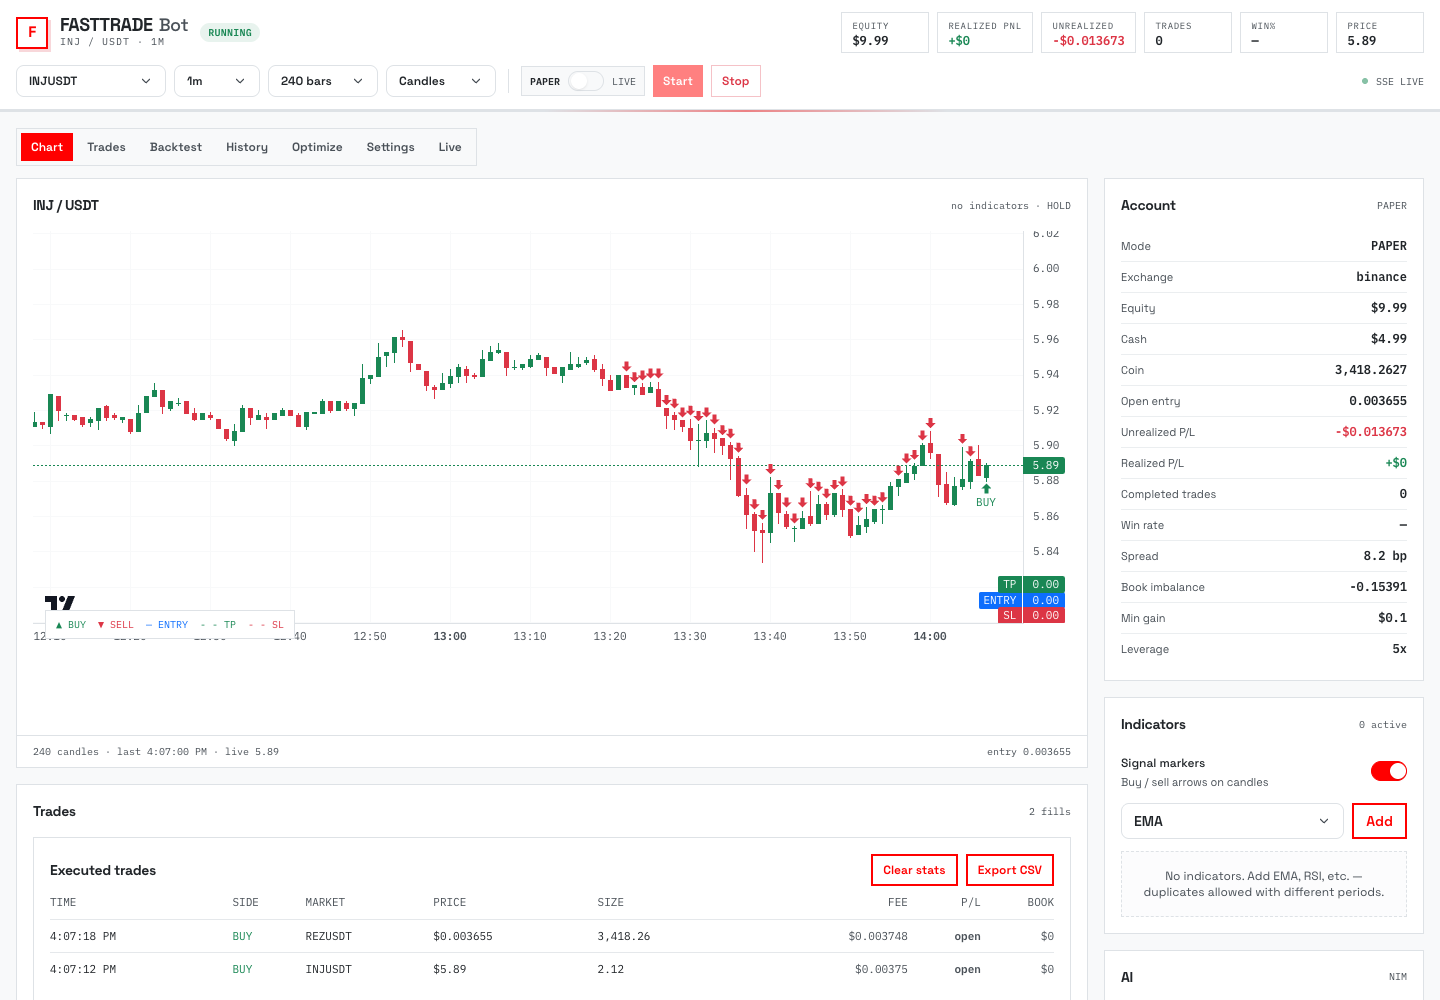
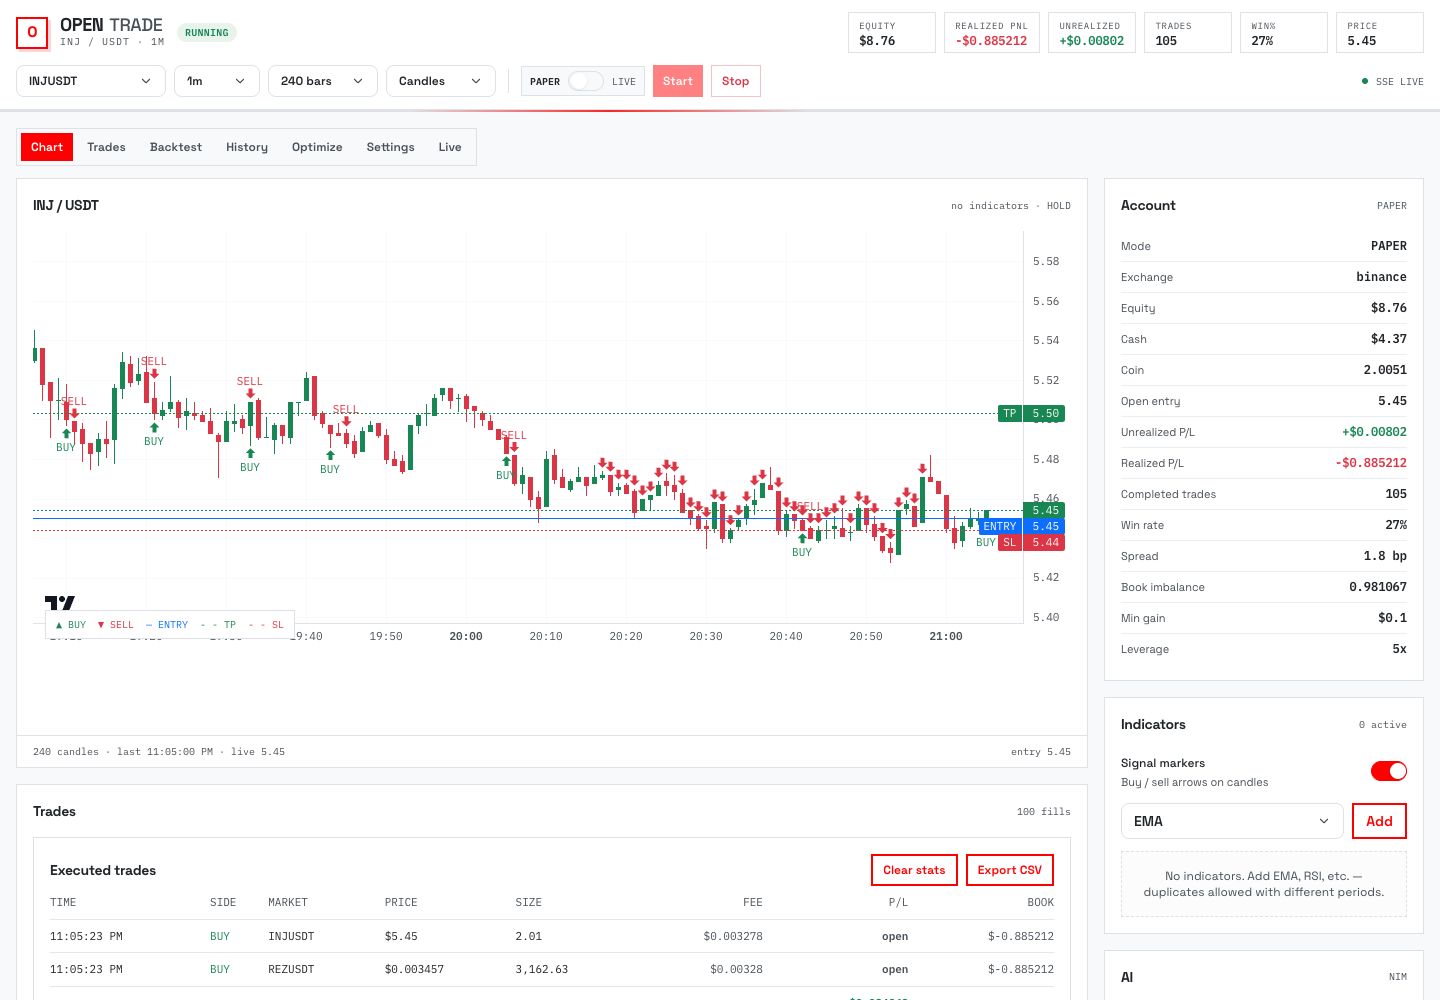
refactor: rename FastTradeBot to OpenTrade
Applies the OpenTrade name everywhere it was still FastTradeBot:

- UI header wordmark, page title, CSV export filename
- localStorage prefs key, sqlite database filename, startup banner
- README, hero/workflow SVGs, and a refreshed live dashboard screenshot
- test_fasttrade.py -> test_opentrade.py (16 tests still pass)

diff --git a/frontend/src/App.tsx b/frontend/src/App.tsx
@@ -59,7 +59,7 @@ const CHART_TYPES: { value: ChartType; label: string }[] = [
 
 const INTERVALS = ['1m', '2m', '3m', '5m', '10m', '15m', '30m', '1h', '2h', '4h', '1d']
 
-const UI_KEY = 'FASTTRADE_UI_V1'
+const UI_KEY = 'OPENTRADE_UI_V1'
 
 type UiPrefs = {
   chartType?: ChartType
@@ -560,10 +560,10 @@ export default function App() {
       <header className="sticky top-0 z-30 border-b border-line bg-panel">
         <div className="mx-auto flex w-full max-w-[1900px] flex-wrap items-center justify-between gap-4 px-4 py-3">
           <div className="flex items-center gap-3">
-            <div className="brand-mark">F</div>
+            <div className="brand-mark">O</div>
             <div>
               <div className="font-display text-lg font-extrabold leading-none tracking-tight">
-                FASTTRADE<span className="ml-1.5 font-medium text-steel">Bot</span>
+                OPEN<span className="ml-1.5 font-medium text-steel">TRADE</span>
               </div>
               <div className="font-mono text-[10px] uppercase tracking-widest text-steel">
                 {pairLabel(settings.symbol)} · {settings.interval}

diff --git a/frontend/index.html b/frontend/index.html
@@ -3,7 +3,7 @@
   <head>
     <meta charset="UTF-8" />
     <meta name="viewport" content="width=device-width, initial-scale=1.0" />
-    <title>FastTradeBot</title>
+    <title>OpenTrade</title>
     <link rel="preconnect" href="https://fonts.googleapis.com" />
     <link rel="preconnect" href="https://fonts.gstatic.com" crossorigin />
     <link

diff --git a/frontend/src/components/TradesPanel.tsx b/frontend/src/components/TradesPanel.tsx
@@ -84,7 +84,7 @@ export function TradesPanel({ trades, onClear }: Props) {
     const url = URL.createObjectURL(blob)
     const a = document.createElement('a')
     a.href = url
-    a.download = 'fasttrade-trades.csv'
+    a.download = 'opentrade-trades.csv'
     a.click()
     URL.revokeObjectURL(url)
   }

diff --git a/test_opentrade.py b/test_opentrade.py
@@ -1,7 +1,7 @@
 import unittest
 from app import atr, backtest, book_stats, ema, optimize, rsi, signal, signal_series, sma, Binance, KuCoin, Mexc, Bot, fee_edge_ok, fee_floor_pct, chart_ai_analyze, chart_patterns, confluence_score, vwap_z
 
-class FastTradeTests(unittest.TestCase):
+class OpenTradeTests(unittest.TestCase):
     def test_indicators(self):
         values = list(range(1, 40)); self.assertEqual(len(ema(values, 9)), len(values)); self.assertEqual(len(sma(values, 20)), len(values)); self.assertEqual(len(rsi(values)), len(values))
         candles = [[i, v, v + 1, v - 1, v, 10] for i, v in enumerate(values)]

diff --git a/app.py b/app.py
@@ -11,7 +11,7 @@ from urllib.parse import parse_qs, urlencode, urlparse
 from urllib.request import Request, urlopen
 
 ROOT = Path(__file__).parent
-DB = ROOT / "fasttrade.sqlite3"
+DB = ROOT / "opentrade.sqlite3"
 WEB = ROOT / "web"; DIST = WEB / "dist"
 
 
@@ -2686,5 +2686,5 @@ class Handler(BaseHTTPRequestHandler):
 
 if __name__ == "__main__":
     PORT = int(os.getenv("PORT", "8765"))
-    print(f"FastTradeBot: http://127.0.0.1:{PORT} (paper mode)")
+    print(f"OpenTrade: http://127.0.0.1:{PORT} (paper mode)")
     ThreadingHTTPServer(("127.0.0.1", PORT), Handler).serve_forever()

diff --git a/README.md b/README.md
@@ -1,18 +1,18 @@
-# FastTradeBot
+# OpenTrade
 
-> **OpenTrade** — a paper-first, fee-aware scalping console for Binance USDT-M futures. Live charts, multi-slot execution, backtesting, and streaming NVIDIA NIM analysis in one self-contained app.
+> A paper-first, fee-aware scalping console for Binance USDT-M futures. Live charts, multi-slot execution, backtesting, and streaming NVIDIA NIM analysis in one self-contained app.
 
 <p align="center">
-  <img src="./assets/readme/hero.svg" width="100%" alt="FastTradeBot — paper-first scalping console for Binance USDT-M futures">
+  <img src="./assets/readme/hero.svg" width="100%" alt="OpenTrade — paper-first scalping console for Binance USDT-M futures">
 </p>
 
 <p align="center">
-  <img src="./assets/readme/screenshot.png" width="100%" alt="FastTradeBot dashboard running in paper mode on SUIUSDT, showing the live chart, signal panels, and an open position">
+  <img src="./assets/readme/screenshot.png" width="100%" alt="OpenTrade dashboard running in paper mode on INJUSDT, showing the live chart with position levels and the trades table">
 </p>
 
 ## What it is
 
-FastTradeBot is a zero-dependency Python console paired with a React dashboard for sub-minute scalping. It runs **paper by default** and only sends real orders when you explicitly arm LIVE mode with Binance USDT-M API keys. Every entry passes through a hard fee gate, so the strategy optimizes for surviving fees before it optimizes for anything else.
+OpenTrade is a zero-dependency Python console paired with a React dashboard for sub-minute scalping. It runs **paper by default** and only sends real orders when you explicitly arm LIVE mode with Binance USDT-M API keys. Every entry passes through a hard fee gate, so the strategy optimizes for surviving fees before it optimizes for anything else.
 
 - **Paper-first** — simulated fills on real market data; no keys needed to chart, signal, or backtest.
 - **Multi-exchange data** — Binance, KuCoin, and MEXC public candles and order books.
@@ -23,7 +23,7 @@ FastTradeBot is a zero-dependency Python console paired with a React dashboard f
 
 ## Why it's different
 
-Most scalpers die on fees. FastTradeBot treats the all-in cost of a round trip as a hard constraint, not an afterthought:
+Most scalpers die on fees. OpenTrade treats the all-in cost of a round trip as a hard constraint, not an afterthought:
 
 - The expected **1-ATR move must clear `fee_edge_mult` × friction** (fees + slippage + spread) before an entry fires.
 - The gate reads ATR directly, so raising `atr_tp_mult` reaches for a bigger target **without** quietly loosening the entry filter.
@@ -33,7 +33,7 @@ Most scalpers die on fees. FastTradeBot treats the all-in cost of a round trip a
 ## How it works
 
 <p align="center">
-  <img src="./assets/readme/workflow.svg" width="100%" alt="FastTradeBot engine loop: market data, signals, fee-edge gate, execution, and expectancy halt feedback">
+  <img src="./assets/readme/workflow.svg" width="100%" alt="OpenTrade engine loop: market data, signals, fee-edge gate, execution, and expectancy halt feedback">
 </p>
 
 1. **Market data** — public candles and order book, aggregated into 15s/30s synthetic bars.
